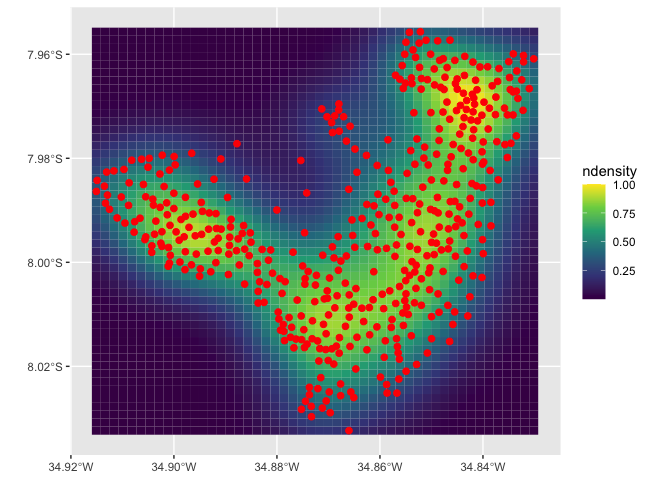
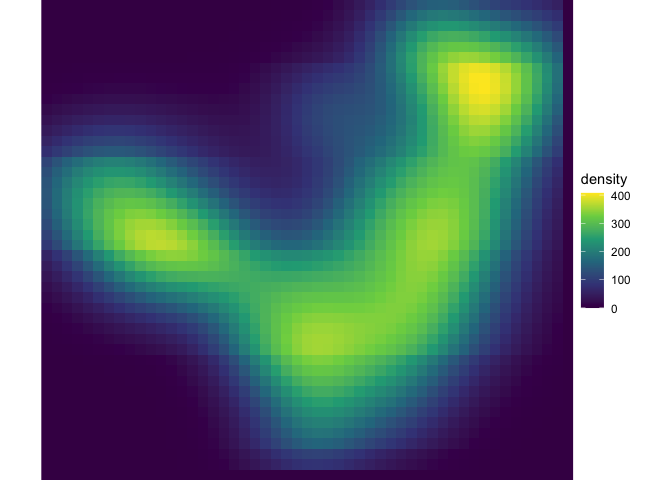
Update raster example to accomodate for {stars} raster object

diff --git a/README.md b/README.md
@@ -18,6 +18,8 @@ library(sf)
 ## Linking to GEOS 3.9.1, GDAL 3.2.3, PROJ 7.2.1; sf_use_s2() is TRUE
 library(sfx)
 library(ggplot2)
+library(stars) # for geom_stars() 
+## Loading required package: abind
 
 olinda1 <- sf::read_sf(system.file("shape/olinda1.shp", package = "sf"))
 
@@ -78,10 +80,17 @@ olinda1_centroids %>%
 # NOT WORKING AS EXPECTED
 olinda1_centroids %>%
     st_density(return_geometry = "raster", n = 50) %>%
-    ggplot() +
-    geom_sf(aes(fill = ndensity), color = NA) +
-    geom_sf(data = olinda1_centroids, color = "red", size = 2) +
-    scale_fill_viridis_c()
+    # use lambda expr to target . inside geom_stars or
+    # else ggplot() will error on fortify() attempt
+    {
+      ggplot() +
+        geom_stars(data = .) +
+        coord_equal() +
+        theme_void() +
+        scale_fill_viridis_c() +
+        scale_x_discrete(expand = c(0, 0)) +
+        scale_y_discrete(expand = c(0, 0))
+    }
 ```
 
     ## No bandwidth provided, using estimate: 0.0266888491366906No bandwidth provided, using estimate: 0.0218299890189734
